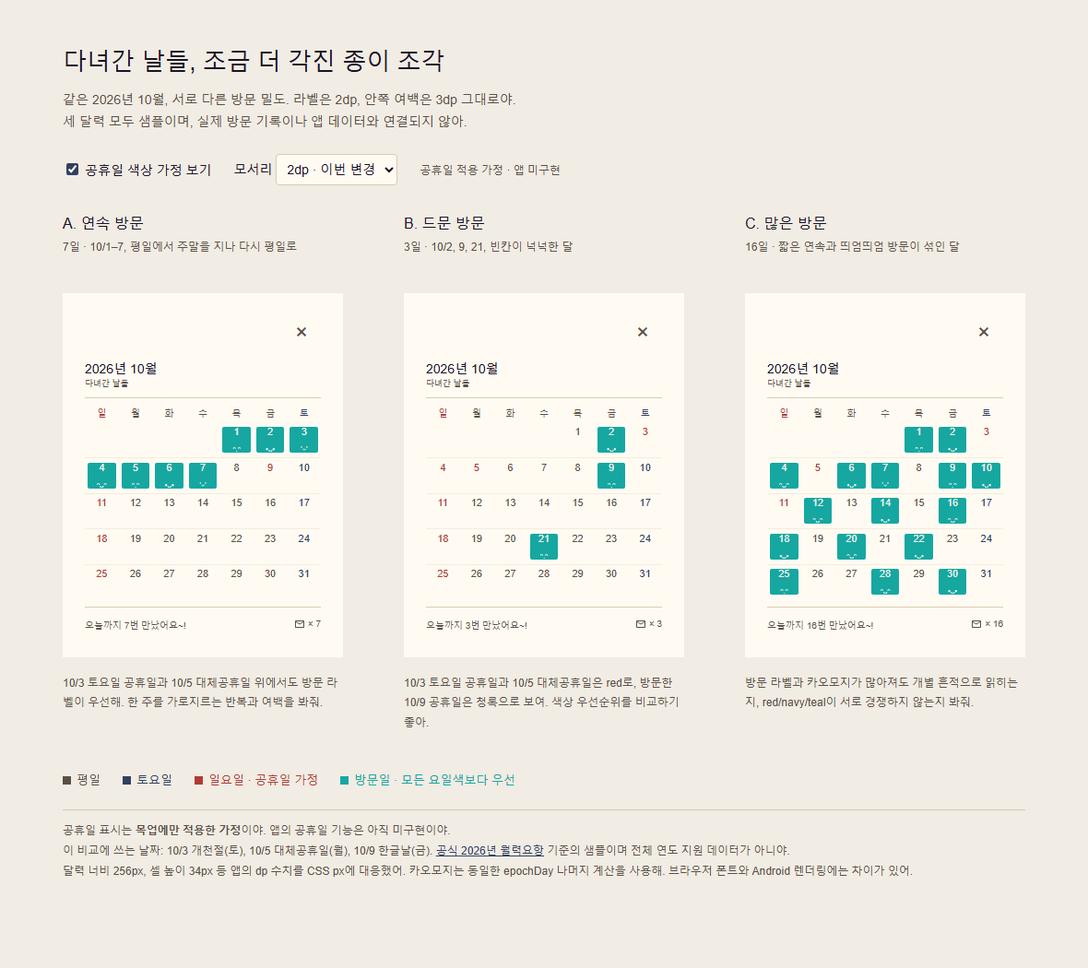
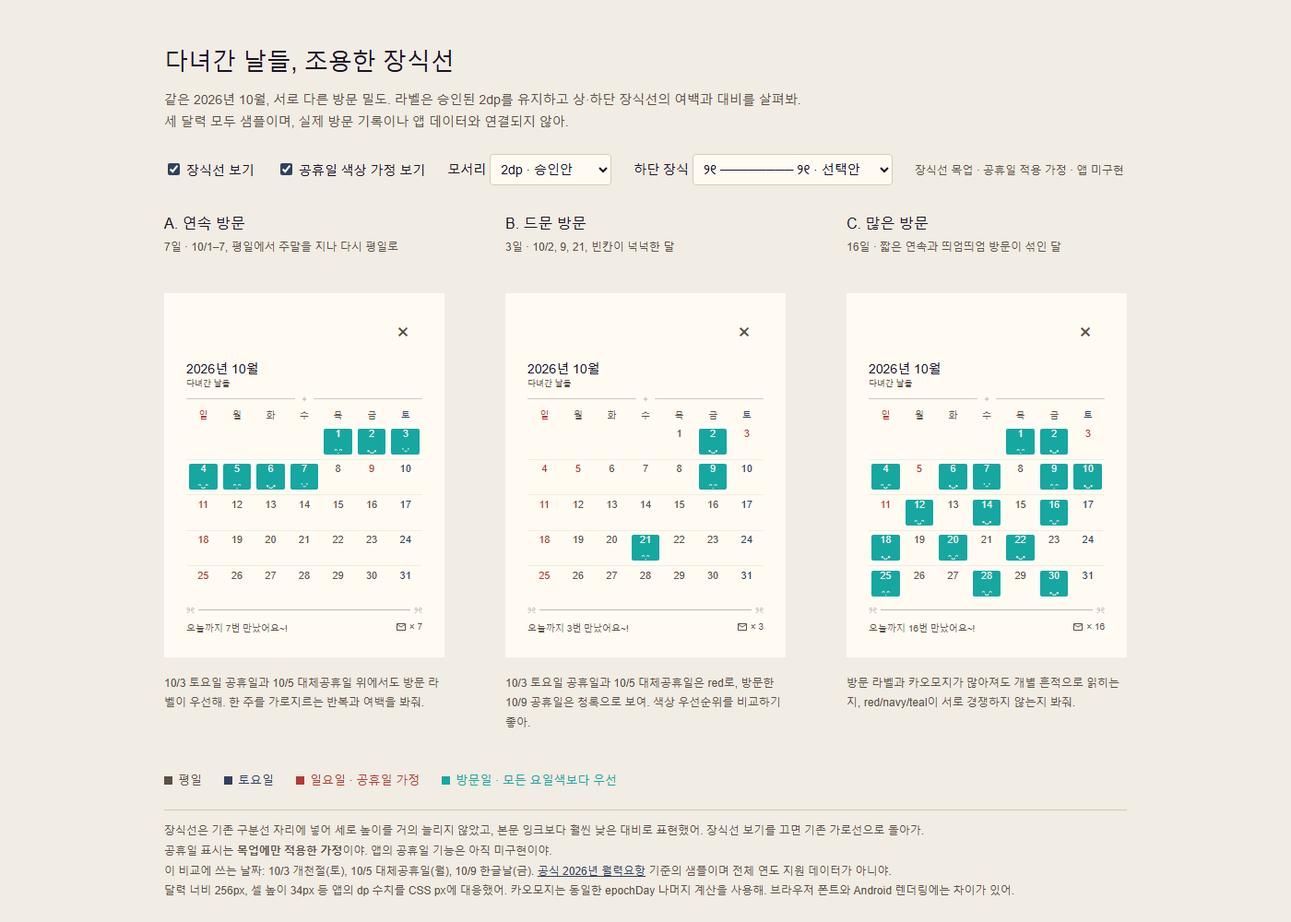
Polish visit calendar ornaments

diff --git a/docs/ai/mockups/visit-calendar-2dp.html b/docs/ai/mockups/visit-calendar-2dp.html
@@ -4,14 +4,15 @@
 <meta name="viewport" content="width=device-width,initial-scale=1">
 <title>다녀간 날들 · 2dp 비교</title>
 <style>
-*{box-sizing:border-box}body{margin:0;background:#f1ece4;color:#1a1324;font-family:Arial,'Malgun Gothic',sans-serif}main{max-width:1100px;margin:48px auto;padding:0 28px}h1{font-size:26px;font-weight:500;margin:0 0 12px}p{font-size:14px;line-height:1.7;color:#5b5046}header{max-width:900px}.controls{display:flex;gap:24px;align-items:center;flex-wrap:wrap;margin:22px 0 30px;font-size:14px}select{font:inherit;padding:7px;background:#fffbf3;color:#1a1324;border:1px solid #dbcbb0;border-radius:4px}input{accent-color:#30415f}.samples{display:grid;grid-template-columns:repeat(3,304px);gap:36px;justify-content:space-between}h2{font-size:16px;font-weight:500;margin:0 0 6px}.case-note{font-size:12px;margin:0 0 18px;min-height:42px}.paper{width:304px;padding:24px;background:#fffbf3;color:#5b5046;min-height:395px}.close{text-align:right;height:48px;font-size:24px;font-weight:400;padding:5px 14px 0 0}.month{font-size:14px;font-weight:500;color:#1a1324}.subtitle{font-size:9px;margin-top:1px}.rule{height:.5px;background:#dbcbb0;margin:10px 0}.weekdays,.week{display:grid;grid-template-columns:repeat(7,1fr)}.weekdays{font-size:10px;text-align:center;margin-bottom:6px}.cell{height:34px;position:relative;text-align:center}.fill{position:absolute;inset:3px;background:#16a7a1;border-radius:var(--radius,2px)}.number{position:absolute;top:2px;left:0;right:0;font-size:11px;line-height:normal}.face{position:absolute;bottom:2px;left:0;right:0;font-size:8px;white-space:nowrap;line-height:normal}.visited{color:#f3f1ea}.sat{color:#30415f}.red{color:#b33a32}.week-rule{height:.5px;background:rgba(219,203,176,.3);margin:2px 0}.footer{display:flex;align-items:center;justify-content:space-between;font-size:10px;padding-top:2px}.envelope{width:12px;height:12px;vertical-align:middle;margin-right:3px}.explain{font-size:12px;line-height:1.8;margin-top:18px}.legend{display:flex;gap:24px;flex-wrap:wrap;margin:30px 0 10px;font-size:13px}.dot{display:inline-block;width:9px;height:9px;margin-right:6px;background:currentColor}.teal{color:#16a7a1}aside{border-top:1px solid #d4c8ba;margin-top:24px;padding-top:12px;font-size:12px;color:#5b5046;line-height:1.8}a{color:#30415f}#mode{font-size:12px;color:#5b5046} @media(max-width:1020px){.samples{grid-template-columns:repeat(3,304px);overflow-x:auto;gap:24px;padding-bottom:12px}main{margin-top:24px}}@media print{.controls{display:none}}
+*{box-sizing:border-box}body{margin:0;background:#f1ece4;color:#1a1324;font-family:Arial,'Malgun Gothic',sans-serif}main{max-width:1100px;margin:48px auto;padding:0 28px}h1{font-size:26px;font-weight:500;margin:0 0 12px}p{font-size:14px;line-height:1.7;color:#5b5046}header{max-width:900px}.controls{display:flex;gap:24px;align-items:center;flex-wrap:wrap;margin:22px 0 30px;font-size:14px}select{font:inherit;padding:7px;background:#fffbf3;color:#1a1324;border:1px solid #dbcbb0;border-radius:4px}input{accent-color:#30415f}.samples{display:grid;grid-template-columns:repeat(3,304px);gap:36px;justify-content:space-between}h2{font-size:16px;font-weight:500;margin:0 0 6px}.case-note{font-size:12px;margin:0 0 18px;min-height:42px}.paper{width:304px;padding:24px;background:#fffbf3;color:#5b5046;min-height:395px}.close{text-align:right;height:48px;font-size:24px;font-weight:400;padding:5px 14px 0 0}.month{font-size:14px;font-weight:500;color:#1a1324}.subtitle{font-size:9px;margin-top:1px}.rule{height:.5px;background:#dbcbb0;margin:10px 0}.ornament{height:21px;width:100%;display:flex;align-items:center;color:rgba(91,80,70,var(--ornament-alpha,.29));font-family:'Malgun Gothic',Arial,sans-serif;font-size:9px;font-weight:400;white-space:nowrap}.ornament.top,.ornament.bottom{margin:1px 0 0}.ornament .line{height:.5px;flex:1;background:currentColor}.ornament.top{gap:6px}.ornament.bottom{gap:2px}.weekdays,.week{display:grid;grid-template-columns:repeat(7,1fr)}.weekdays{font-size:10px;text-align:center;margin-bottom:6px}.cell{height:34px;position:relative;text-align:center}.fill{position:absolute;inset:3px;background:#16a7a1;border-radius:var(--radius,2px)}.number{position:absolute;top:2px;left:0;right:0;font-size:11px;line-height:normal}.face{position:absolute;bottom:2px;left:0;right:0;font-size:8px;white-space:nowrap;line-height:normal}.visited{color:#f3f1ea}.sat{color:#30415f}.red{color:#b33a32}.week-rule{height:.5px;background:rgba(219,203,176,.3);margin:2px 0}.footer{display:flex;align-items:center;justify-content:space-between;font-size:10px;padding-top:2px}.envelope{width:12px;height:12px;vertical-align:middle;margin-right:3px}.explain{font-size:12px;line-height:1.8;margin-top:18px}.legend{display:flex;gap:24px;flex-wrap:wrap;margin:30px 0 10px;font-size:13px}.dot{display:inline-block;width:9px;height:9px;margin-right:6px;background:currentColor}.teal{color:#16a7a1}aside{border-top:1px solid #d4c8ba;margin-top:24px;padding-top:12px;font-size:12px;color:#5b5046;line-height:1.8}a{color:#30415f}#mode{font-size:12px;color:#5b5046} @media(max-width:1020px){.samples{grid-template-columns:repeat(3,304px);overflow-x:auto;gap:24px;padding-bottom:12px}main{margin-top:24px}}@media print{.controls{display:none}}
 </style>
+<style>.ornament.top{color:rgba(91,80,70,.29)}.ornament.bottom{color:rgba(91,80,70,var(--ornament-alpha,.39))}</style>
 <main>
-<header><h1>다녀간 날들, 조금 더 각진 종이 조각</h1><p>같은 2026년 10월, 서로 다른 방문 밀도. 라벨은 2dp, 안쪽 여백은 3dp 그대로야.<br>세 달력 모두 샘플이며, 실제 방문 기록이나 앱 데이터와 연결되지 않아.</p></header>
-<div class="controls"><label><input id="holidays" type="checkbox" checked> 공휴일 색상 가정 보기</label><label>모서리 <select id="radius"><option value="2">2dp · 이번 변경</option><option value="6">6dp · 이전 모습</option></select></label><span id="mode"></span></div>
+<header><h1>다녀간 날들, 조용한 장식선</h1><p>같은 2026년 10월, 서로 다른 방문 밀도. 라벨은 승인된 2dp를 유지하고 상·하단 장식선의 여백과 대비를 살펴봐.<br>세 달력 모두 샘플이며, 실제 방문 기록이나 앱 데이터와 연결되지 않아.</p></header>
+<div class="controls"><label><input id="ornaments" type="checkbox" checked> 장식선 보기</label><label><input id="holidays" type="checkbox" checked> 공휴일 색상 가정 보기</label><label>모서리 <select id="radius"><option value="2">2dp · 승인안</option><option value="6">6dp · 이전 모습</option></select></label><label>하단 장식 <select id="bottom-variant"><option value="strong-current">⋆｡────────｡⋆ · 대비 상향</option><option value="current">⋆｡────────｡⋆ · 기존 대비</option><option value="bow-solid">୨୧────────୨୧</option><option value="bow-spaced" selected>୨୧ ──────── ୨୧ · 선택안</option></select></label><span id="mode"></span></div>
 <section class="samples" id="samples" aria-label="방문 밀도별 달력 비교"></section>
 <div class="legend"><span style="color:#5b5046"><i class="dot"></i>평일</span><span class="sat"><i class="dot"></i>토요일</span><span class="red"><i class="dot"></i>일요일 · 공휴일 가정</span><span class="teal"><i class="dot"></i>방문일 · 모든 요일색보다 우선</span></div>
-<aside>공휴일 표시는 <strong>목업에만 적용한 가정</strong>이야. 앱의 공휴일 기능은 아직 미구현이야.<br>이 비교에 쓰는 날짜: 10/3 개천절(토), 10/5 대체공휴일(월), 10/9 한글날(금). <a href="https://www.kasa.go.kr/prog/bbsArticle/BBSMSTR_000000000010/view.do?bbsId=BBSMSTR_000000000010&nttId=B000000001860Pe2zT3" target="_blank" rel="noreferrer">공식 2026년 월력요항</a> 기준의 샘플이며 전체 연도 지원 데이터가 아니야.<br>달력 너비 256px, 셀 높이 34px 등 앱의 dp 수치를 CSS px에 대응했어. 카오모지는 동일한 epochDay 나머지 계산을 사용해. 브라우저 폰트와 Android 렌더링에는 차이가 있어.</aside>
+<aside>장식선은 기존 구분선 자리에 넣어 세로 높이를 거의 늘리지 않았고, 본문 잉크보다 훨씬 낮은 대비로 표현했어. 장식선 보기를 끄면 기존 가로선으로 돌아가.<br>공휴일 표시는 <strong>목업에만 적용한 가정</strong>이야. 앱의 공휴일 기능은 아직 미구현이야.<br>이 비교에 쓰는 날짜: 10/3 개천절(토), 10/5 대체공휴일(월), 10/9 한글날(금). <a href="https://www.kasa.go.kr/prog/bbsArticle/BBSMSTR_000000000010/view.do?bbsId=BBSMSTR_000000000010&nttId=B000000001860Pe2zT3" target="_blank" rel="noreferrer">공식 2026년 월력요항</a> 기준의 샘플이며 전체 연도 지원 데이터가 아니야.<br>달력 너비 256px, 셀 높이 34px 등 앱의 dp 수치를 CSS px에 대응했어. 카오모지는 동일한 epochDay 나머지 계산을 사용해. 브라우저 폰트와 Android 렌더링에는 차이가 있어.</aside>
 </main>
 <script>
 const faces=['•ᴗ•','˙ᵕ˙','ᵔᴗᵔ','ᵔ.ᵔ'];
@@ -23,8 +24,11 @@ const cases=[
 const holidays=new Set([3,5,9]);
 function render(){
  const show=document.querySelector('#holidays').checked;
+ const decorated=document.querySelector('#ornaments').checked;
+ const bottomVariant=document.querySelector('#bottom-variant').value;
+ document.documentElement.style.setProperty('--ornament-alpha',bottomVariant==='current'?'.29':'.39');
  document.documentElement.style.setProperty('--radius',document.querySelector('#radius').value+'px');
- document.querySelector('#mode').textContent=show?'공휴일 적용 가정 · 앱 미구현':'현재 앱과 같은 주말색만';
+ document.querySelector('#mode').textContent=`${decorated?'장식선 목업':'기존 구분선'} · ${show?'공휴일 적용 가정 · 앱 미구현':'현재 앱과 같은 주말색만'}`;
  document.querySelector('#samples').innerHTML=cases.map(c=>{
   const dates=[...Array(4).fill(null),...Array.from({length:31},(_,i)=>i+1)];
   const weeks=Array.from({length:5},(_,w)=>dates.slice(w*7,w*7+7).map(day=>{
@@ -34,9 +38,13 @@ function render(){
    const face=faces[((date.getTime()/86400000)%4+4)%4];
    return `<div class="cell ${cls}" aria-label="10월 ${day}일${visited?', 샘플 방문':''}${holiday?', 공휴일 가정':''}">${visited?'<div class="fill"></div>':''}<span class="number">${day}</span>${visited?`<span class="face">${face}</span>`:''}</div>`;
   }).join(''));
-  return `<article><h2>${c.title}</h2><p class="case-note">${c.note}</p><div class="paper"><div class="close" aria-hidden="true">×</div><div class="month">2026년 10월</div><div class="subtitle">다녀간 날들</div><div class="rule"></div><div class="weekdays"><span class="red">일</span><span>월</span><span>화</span><span>수</span><span>목</span><span>금</span><span class="sat">토</span></div>${weeks.map((w,i)=>`<div class="week">${w}</div>${i<4?'<div class="week-rule"></div>':''}`).join('')}<div class="rule"></div><div class="footer"><span>오늘까지 ${c.days.length}번 만났어요~!</span><span><svg class="envelope" viewBox="0 0 24 24" aria-hidden="true"><path d="M20 4H4c-1.1 0-2 .9-2 2v12c0 1.1.9 2 2 2h16c1.1 0 2-.9 2-2V6c0-1.1-.9-2-2-2zm0 14H4V8l8 5 8-5v10zm-8-7L4 6h16l-8 5z" fill="currentColor"/></svg>× ${c.days.length}</span></div></div><p class="explain">${c.explain}</p></article>`;
+  const top=decorated?'<div class="ornament top" aria-hidden="true"><span class="line"></span><span>✦</span><span class="line"></span></div>':'<div class="rule"></div>';
+  const symbols=bottomVariant==='bow-solid'||bottomVariant==='bow-spaced'?['୨୧','୨୧']:['⋆｡','｡⋆'];
+  const spacer=bottomVariant==='bow-spaced'?'<span> </span>':'';
+  const bottom=decorated?`<div class="ornament bottom" aria-hidden="true"><span>${symbols[0]}</span>${spacer}<span class="line"></span>${spacer}<span>${symbols[1]}</span></div>`:'<div class="rule"></div>';
+  return `<article><h2>${c.title}</h2><p class="case-note">${c.note}</p><div class="paper"><div class="close" aria-hidden="true">×</div><div class="month">2026년 10월</div><div class="subtitle">다녀간 날들</div>${top}<div class="weekdays"><span class="red">일</span><span>월</span><span>화</span><span>수</span><span>목</span><span>금</span><span class="sat">토</span></div>${weeks.map((w,i)=>`<div class="week">${w}</div>${i<4?'<div class="week-rule"></div>':''}`).join('')}${bottom}<div class="footer"><span>오늘까지 ${c.days.length}번 만났어요~!</span><span><svg class="envelope" viewBox="0 0 24 24" aria-hidden="true"><path d="M20 4H4c-1.1 0-2 .9-2 2v12c0 1.1.9 2 2 2h16c1.1 0 2-.9 2-2V6c0-1.1-.9-2-2-2zm0 14H4V8l8 5 8-5v10zm-8-7L4 6h16l-8 5z" fill="currentColor"/></svg>× ${c.days.length}</span></div></div><p class="explain">${c.explain}</p></article>`;
  }).join('');
 }
-document.querySelector('#holidays').addEventListener('change',render);document.querySelector('#radius').addEventListener('change',render);render();
+document.querySelector('#ornaments').addEventListener('change',render);document.querySelector('#holidays').addEventListener('change',render);document.querySelector('#radius').addEventListener('change',render);document.querySelector('#bottom-variant').addEventListener('change',render);render();
 </script>
 </html>

diff --git a/app/src/main/java/com/postcardmemory/ui/gallery/VisitCalendarDrawer.kt b/app/src/main/java/com/postcardmemory/ui/gallery/VisitCalendarDrawer.kt
@@ -51,6 +51,8 @@ internal fun visitCountLabel(totalVisitDays: Int?): String =
 // 차분한 웜톤 잉크 색을 재사용한다(SealInkNavy/SealInkRed) — 새 원색을 추가하지 않는다.
 private val WeekendSaturday = SealInkNavy
 private val WeekendSunday = SealInkRed
+private val VisitCalendarOrnamentColor = InkSecondary.copy(alpha = 0.29f)
+private val VisitCalendarBottomOrnamentColor = InkSecondary.copy(alpha = 0.39f)
 
 /** 공휴일 데이터가 없어 요일 기본색만 적용한다. 대체공휴일 포함 지원은 STOP 상태다. */
 internal fun visitDateColor(date: LocalDate): Color = when (date.dayOfWeek) {
@@ -69,6 +71,46 @@ private const val VisitFillArgb = 0xFF16A7A1L
  * ([com.postcardmemory.ui.detail.labelStickerTextColorArgbFor])을 그대로 재사용한다.
  */
 internal val VisitFillContrastColor = Color(labelStickerTextColorArgbFor(VisitFillArgb))
+
+@Composable
+private fun VisitCalendarTopOrnament() {
+    Row(
+        modifier = Modifier.fillMaxWidth().height(21.dp).clearAndSetSemantics { },
+        verticalAlignment = Alignment.CenterVertically
+    ) {
+        HorizontalDivider(
+            modifier = Modifier.weight(1f),
+            thickness = .5.dp,
+            color = VisitCalendarOrnamentColor
+        )
+        Spacer(Modifier.width(6.dp))
+        Text("✦", color = VisitCalendarOrnamentColor, fontSize = 9.sp)
+        Spacer(Modifier.width(6.dp))
+        HorizontalDivider(
+            modifier = Modifier.weight(1f),
+            thickness = .5.dp,
+            color = VisitCalendarOrnamentColor
+        )
+    }
+}
+
+@Composable
+private fun VisitCalendarBottomOrnament() {
+    Row(
+        modifier = Modifier.fillMaxWidth().height(21.dp).clearAndSetSemantics { },
+        verticalAlignment = Alignment.CenterVertically
+    ) {
+        Text("୨୧", color = VisitCalendarBottomOrnamentColor, fontSize = 9.sp)
+        Spacer(Modifier.width(2.dp))
+        HorizontalDivider(
+            modifier = Modifier.weight(1f),
+            thickness = .5.dp,
+            color = VisitCalendarBottomOrnamentColor
+        )
+        Spacer(Modifier.width(4.dp))
+        Text("୨୧", color = VisitCalendarBottomOrnamentColor, fontSize = 9.sp)
+    }
+}
 
 /** 예전 좌측 drawer의 위치·종이색을 재사용하되, 기능 메뉴는 복원하지 않는다. */
 @Composable
@@ -126,9 +168,7 @@ internal fun MonthlyVisitCalendar(month: YearMonth, visitedEpochDays: Set<Long>,
             fontSize = 9.sp,
             modifier = Modifier.padding(top = 1.dp)
         )
-        Spacer(Modifier.height(10.dp))
-        HorizontalDivider(thickness = .5.dp, color = PaperDivider)
-        Spacer(Modifier.height(10.dp))
+        VisitCalendarTopOrnament()
         Row(Modifier.fillMaxWidth()) {
             listOf(
                 "일" to DayOfWeek.SUNDAY, "월" to DayOfWeek.MONDAY, "화" to DayOfWeek.TUESDAY,
@@ -198,7 +238,7 @@ internal fun MonthlyVisitCalendar(month: YearMonth, visitedEpochDays: Set<Long>,
                 }
             }
             // 종이 달력의 행 구분을 흉내 낸 아주 옅은 가로선. 표/타임테이블처럼 보이지 않도록
-            // 상단/하단 구분선보다 훨씬 연하게 두고, 마지막 주 다음에는 넣지 않는다.
+            // 장식선과 함께 낮은 대비를 유지하고, 마지막 주 다음에는 넣지 않는다.
             if (weekIndex != weeks.lastIndex) {
                 HorizontalDivider(
                     thickness = .5.dp,
@@ -207,10 +247,9 @@ internal fun MonthlyVisitCalendar(month: YearMonth, visitedEpochDays: Set<Long>,
                 )
             }
         }
-        Spacer(Modifier.height(10.dp))
-        HorizontalDivider(thickness = .5.dp, color = PaperDivider)
+        VisitCalendarBottomOrnament()
         Row(
-            modifier = Modifier.fillMaxWidth().padding(top = 12.dp),
+            modifier = Modifier.fillMaxWidth().padding(top = 2.dp),
             verticalAlignment = Alignment.CenterVertically
         ) {
             Text(

diff --git a/docs/ai/HANDOFF.md b/docs/ai/HANDOFF.md
@@ -4,16 +4,16 @@
 
 ## 현재 상태
 
-방문 라벨 모서리만 **6dp → 2dp**로 바꿨어. 청록색·크기·3dp 여백·날짜·카오모지 위치·대비와 방문 저장 구조는 그대로야. 공휴일은 지원 연도 결정 지점에서 STOP했고, 추가 장식은 채택하지 않았어.
+방문 라벨 모서리는 **6dp → 2dp**로 바꿨고 실기기 QA와 이전 commit·push까지 끝났어. 사용자가 승인한 전체 폭 장식선을 실제 방문 달력에도 최소 반영했어. 청록색·라벨 크기·3dp 여백·날짜·카오모지 위치·대비와 방문 저장 구조는 그대로야. 공휴일은 지원 연도 결정 지점에서 STOP했어.
 
 | 구분 | 상태 |
 |---|---|
-| 구현 | 2dp 완료, 공휴일 미구현·정책 판단 대기 |
+| 구현 | 2dp 완료. 장식선 목업 승인 및 production 최소 반영 완료. 공휴일 미구현·정책 판단 대기 |
 | 자동 검증 | 관련 테스트 16건·Kotlin compile·diff check 통과 |
-| 사용자 QA | 완료 — 목업과 실기기에서 2dp 미감 만족 확인 |
-| commit | 완료 — `49654c2` 2dp 코드·목업·73일차 원문 보존 |
-| push | 완료 — `141d6cb..49654c2` 원격 반영 |
-| 전체 완료 | 2dp 폴리싱 완료. 공휴일 구현은 지원 연도 판단 대기 |
+| 사용자 QA | 2dp 실기기 완료. 장식선 목업 승인 완료, production 실기기 QA 대기 |
+| commit | 2dp 작업 완료 — `49654c2`, HANDOFF `a113dd7`. 현재 장식선 변경은 미커밋 |
+| push | 2dp 작업 완료 — 원격 `a113dd7`. 현재 장식선 변경은 미푸시 |
+| 전체 완료 | 2dp 폴리싱 완료. 장식선은 production 반영 후 실기기 QA 대기. 공휴일 구현은 사용자 정책 판단 대기 |
 
 73일차 원문은 [방문 달력 최종 인수인계](archive/HANDOFF-2026-09-14-visit-calendar-final.md)에 byte 동일하게 보존했어(SHA256 일치 확인). 과거 사고·실패·폐기 접근도 원문 그대로야. archive 안 상대 링크는 원래 HANDOFF 위치 기준이야. 원문에 QA 완료 표와 과거 QA 대기 문장이 혼재해 있어. 73일차 QA 완료는 현재 사용자 지시서와 원문 최종 표를 기준으로 봐. 이번 QA와 혼동하지 않아.
 
@@ -83,26 +83,50 @@
 - 실제 filesDir·visit_record·방문 횟수·streak 접근 없음. 이번 추가 작업에서 production 수정 없음. 기존 2dp 한 줄 변경만 그대로 남아 있어.
 - 추가 산출물은 `docs/ai/mockups/`의 HTML·PNG와 이 기록이야. HTML 정적 점검 및 `git diff --check` 통과. 앱 코드 변경이 없어 Gradle 재실행은 불필요, 직전 관련 16건·compile 통과 기록 유지. 실기기 2dp QA와 `49654c2` commit·push까지 완료했어.
 
+### 74일차 추가 장식선 목업 승인 및 production 최소 구현
+
+- 사용자 지정 조합을 같은 HTML 목업에 추가했어: 상단 `────── ✦ ──────`, 하단 `⋆｡────────｡⋆`.
+- 첫 목업 확인 후 사용자가 양옆 선이 중간에서 끊겨 보인다고 피드백했어. 상·하단 선을 주차 구분선과 같은 달력 전체 폭으로 늘리고, 중앙 `✦`와 양끝 `⋆｡`·`｡⋆`만 작은 문자로 남겼어.
+- 두 장식선은 기존 상·하단 구분선 자리를 대신해 달력 높이를 거의 늘리지 않아. 선 두께는 주차 구분선과 같은 0.5px이고, 본문 잉크보다 훨씬 낮은 대비(`InkSecondary` 계열을 약 29%로 표현)와 9px 장식 문자 크기를 사용했어.
+- `장식선 보기`를 켜고 끌 수 있어 같은 3종 전체 달력에서 기존 가로선과 직접 비교 가능해. 2dp·공휴일 가정 비교 기능도 유지했어.
+- Chrome headless로 선 길이 수정 후 PNG를 다시 만들고 직접 확인했어. 양쪽 여백까지 선이 이어져 기존보다 덜 끊겨 보이며, 상단 장식은 요일·날짜보다 뒤로 물러나고 하단 장식은 방문 횟수 문구보다도 조용하게 보여.
+- HTML script 실행 점검: 상단 장식 3개, 하단 장식 3개, 전체 폭 선 조각 9개, 끄면 기존 구분선 6개, 방문 라벨 26개, 2px 반경 유지 모두 통과. `git diff --check` 통과.
+- 사용자 확인(2026-09-15): 늘린 선 길이가 정확히 원한 지점이고 완벽하다고 명시했어. 이 승인으로 정적 프로토타입 단계를 통과했어.
+- production은 `VisitCalendarDrawer.kt` 안에서 기존 상·하단 구분선 자리를 전용 장식 composable로 교체했어. 상단은 전체 폭 선 사이 중앙 `✦`, 하단은 양끝 `⋆｡`·`｡⋆` 사이 전체 폭 선이야. 선은 0.5dp, `InkSecondary` 29% 색, 문자는 9sp로 목업과 맞췄어.
+- 장식 Row를 기존 구분선과 여백의 총높이에 맞추고 footer 위 여백을 조정해 달력 전체 밀도와 위치를 유지했어. 장식은 `clearAndSetSemantics`로 접근성 읽기에서 제외했어.
+- 실제 방문 데이터·filesDir·visit_record·streak 접근 없음. route·dependency·저장 구조 변경 없음. 현재 변경은 `VisitCalendarDrawer.kt`, `docs/ai/mockups/visit-calendar-2dp.html`, 갱신된 PNG와 이 HANDOFF야.
+- 상태: 목업 승인과 production 최소 구현 완료, production 실기기 QA 대기. 현재 변경은 commit·push하지 않았어.
+
+### 74일차 하단 장식선 대비·문자 후보 목업
+
+- 사용자 추가 지시(2026-09-15): 현재 `⋆｡────────｡⋆` 문자열은 유지하되 색 대비를 소폭 높인 안을 먼저 확인하고, 존재감이 부족하면 `୨୧────────୨୧`와 `୨୧ ──────── ୨୧` 후보를 비교하기로 했어. 대비를 높여도 별무늬 가독성이 약해 사용자가 `୨୧ ──────── ୨୧`를 선택했어.
+- 같은 HTML 목업에 `하단 장식` 선택을 추가했어. 기본 선택은 기존 문자열 + 대비 상향(약 39%)이고, 기존 대비(약 29%)와 두 `୨୧` 후보를 같은 2026년 10월 A/B/C 전체 달력에서 비교할 수 있어.
+- 상단 `✦`와 선 길이, 달력 크기, 2dp 라벨, 공휴일 가정은 유지했어. 실제 앱 코드·route·dependency·filesDir·visit_record·streak는 건드리지 않았어.
+- Chrome headless로 기본 대비 상향 상태의 PNG를 갱신하고 3개 달력 전체를 직접 확인했어. 문자열은 양끝에 남고 선은 기존 승인 길이를 유지하며, 대비 상향안도 방문 라벨보다 먼저 시선을 끌 정도는 아니었어. 후보 선택별 최종 채택은 아직 사용자 확인 대기야.
+- 사용자가 선택한 `୨୧ ──────── ୨୧`를 production 하단 장식에 반영했고, 하단만 대비를 39%로 올렸어. 상단 `✦`는 기존 29% 대비를 유지해 시선 우선순위를 보존했어. 목업 기본 선택도 선택안으로 맞췄어.
+- 자동 검증: 단일 Gradle 프로세스로 `VisitCalendarTest`·`VisitHistoryStorageTest` 관련 테스트 통과, `:app:compileDebugKotlin` 성공. 병렬 실행 시 Kotlin incremental cache 잠금 환경 오류가 있었지만 중단 후 단일 실행으로 재검증했어.
+- 상태: 선택안 production 반영 및 자동 검증 완료, 실기기 QA 대기. 현재 변경은 commit·push하지 않았어.
+
 ## 자동 검증·실행 환경
 
 - 기존 로컬 Gradle 9.4.1 및 Android Studio JBR 사용. 저장소에 실행 wrapper가 없어 기존 로컬 `gradle.bat` 사용.
 - 첫 offline 실행은 `settings.gradle.kts:8`의 기존 `foojay-resolver-convention:0.10.0`을 찾지 못해 설정 단계에서 실패. 앱 코드 오류가 아니야. build 설정을 수정하지 않았어.
 - 기존 캐시·네트워크 접근 권한으로 재실행. `:app:testDebugUnitTest --tests com.postcardmemory.ui.gallery.VisitCalendarTest --tests com.postcardmemory.utils.VisitHistoryStorageTest :app:compileDebugKotlin --console=plain`.
-- 최종 결과: `BUILD SUCCESSFUL in 2m 34s`. `VisitCalendarTest` 8건, `VisitHistoryStorageTest` 8건, 실패·에러 0을 XML 결과로 확인. `compileDebugKotlin` 성공. 카오모지·색상·월 경계·방문 저장의 기존 관련 검사를 통과했지만 실기기 미감을 대신하지 않아.
-- `git diff --check` 통과. production 전체 diff는 반경 한 줄뿐이고, 문서 diff와 archive 원문 보존도 검토했어. 기존 LF→CRLF 경고는 있어.
-- 전체 unit test는 한 줄 shape 변경에 비례해 실행하지 않았어. 새 구현을 그대로 되풀이하는 테스트도 추가하지 않았어.
+- 장식선 production 반영 후 재검증 결과: `BUILD SUCCESSFUL in 2m 32s`. `VisitCalendarTest` 8건, `VisitHistoryStorageTest` 8건, 실패·에러 0을 XML 결과로 확인했고 `compileDebugKotlin`도 성공했어. 기존 코드의 deprecated API 등 warning만 있었어.
+- 최종 `git diff --check` 통과. production diff는 장식선 전용 composable과 기존 구분선 교체 및 밀도 보정으로 한정했어. 기존 LF→CRLF 경고는 있어.
+- 전체 unit test는 국소 시각 변경에 비례해 실행하지 않았어. 새 장식을 그대로 되풀이하는 테스트도 추가하지 않았어.
 - 실기기 설치·실행·삭제·초기화·계측 테스트·사용자 데이터 조작은 실행하지 않았어.
 
 ## 실기기 QA·남은 위험·다음 행동
 
-**실기기 QA 완료.** 사용자가 실제 앱에서 2dp를 확인하고 마음에 든다고 명시했어.
+**2dp 실기기 QA는 완료했고, 새 장식선 production 실기기 QA는 대기 중이야.** 사용자가 목업의 전체 폭 선 길이와 인상을 승인한 뒤 실제 코드에 반영했어.
 
 - 확인 대상은 `141d6cb` 위 2dp 작업트리였고, 확인된 결과를 `49654c2`에 commit했어.
 - Gallery 좌측 메뉴 → 방문 달력. 여러 방문 라벨을 함께 보고 종이 조각 느낌인지, 너무 직각이거나 답답한지 확인해. 닫고 다시 열어 날짜·카오모지·횟수 유지도 확인해.
 - 5~7일 연속 기록이 없다면 기록·기기 날짜를 조작하지 않고 자연적으로 쌓인 뒤 확인해. 그 조건은 미검증으로 남겨.
-- 공휴일 QA는 미구현이라 해당 없어. 새 장식 QA도 해당 없어.
+- 장식선 QA는 Gallery 좌측 메뉴에서 방문 달력을 열어 상·하단 선이 목업처럼 양옆까지 충분히 이어지는지, 본문·방문 라벨보다 먼저 보이지 않는지, 전체 높이와 footer 간격이 자연스러운지 확인하면 돼. 공휴일 QA는 미구현이라 해당 없어.
 - history marker와 `visit_record.txt`, total/streak·하루 중복 방지, Intro·Gallery 기타 기능, Room·Migration·저장·공유 경로는 변경하지 않았어.
 - 기존 위험 유지: history와 요약 저장은 단일 트랜잭션이 아니며 history 실패 시 그날 라벨이 없을 수 있어. 자정 너머 프로세스를 유지할 때 방문 집계 범위도 기존 그대로야. 이번에 이를 해결하거나 실기기에서 검증했다고 주장하지 않아.
 - 과거 데이터 사고·복구 범위와 Intro 자연 도달 미검증은 archive 기록을 유지해. 코드 커밋을 사용자 데이터 백업으로 해석하지 않아.
-- 다음 후보: 공휴일은 지원 연도·유지 방침 결정 후 별도 재개 가능. 현재 승인된 추가 production 작업은 없어.
+- 다음 행동: 사용자가 장식선 production 실기기 화면을 확인해. 통과 후 별도 명시 요청이 있으면 현재 4개 tracked 파일만 commit·push할 수 있어. 공휴일은 지원 연도·유지 방침 결정 후 별도 재개 가능해.
 - 전용 task checklist 도구가 없어 진행 메시지와 이 문서로 단계를 기록했어. Goal 대체나 하위 agent 위임 없음.
